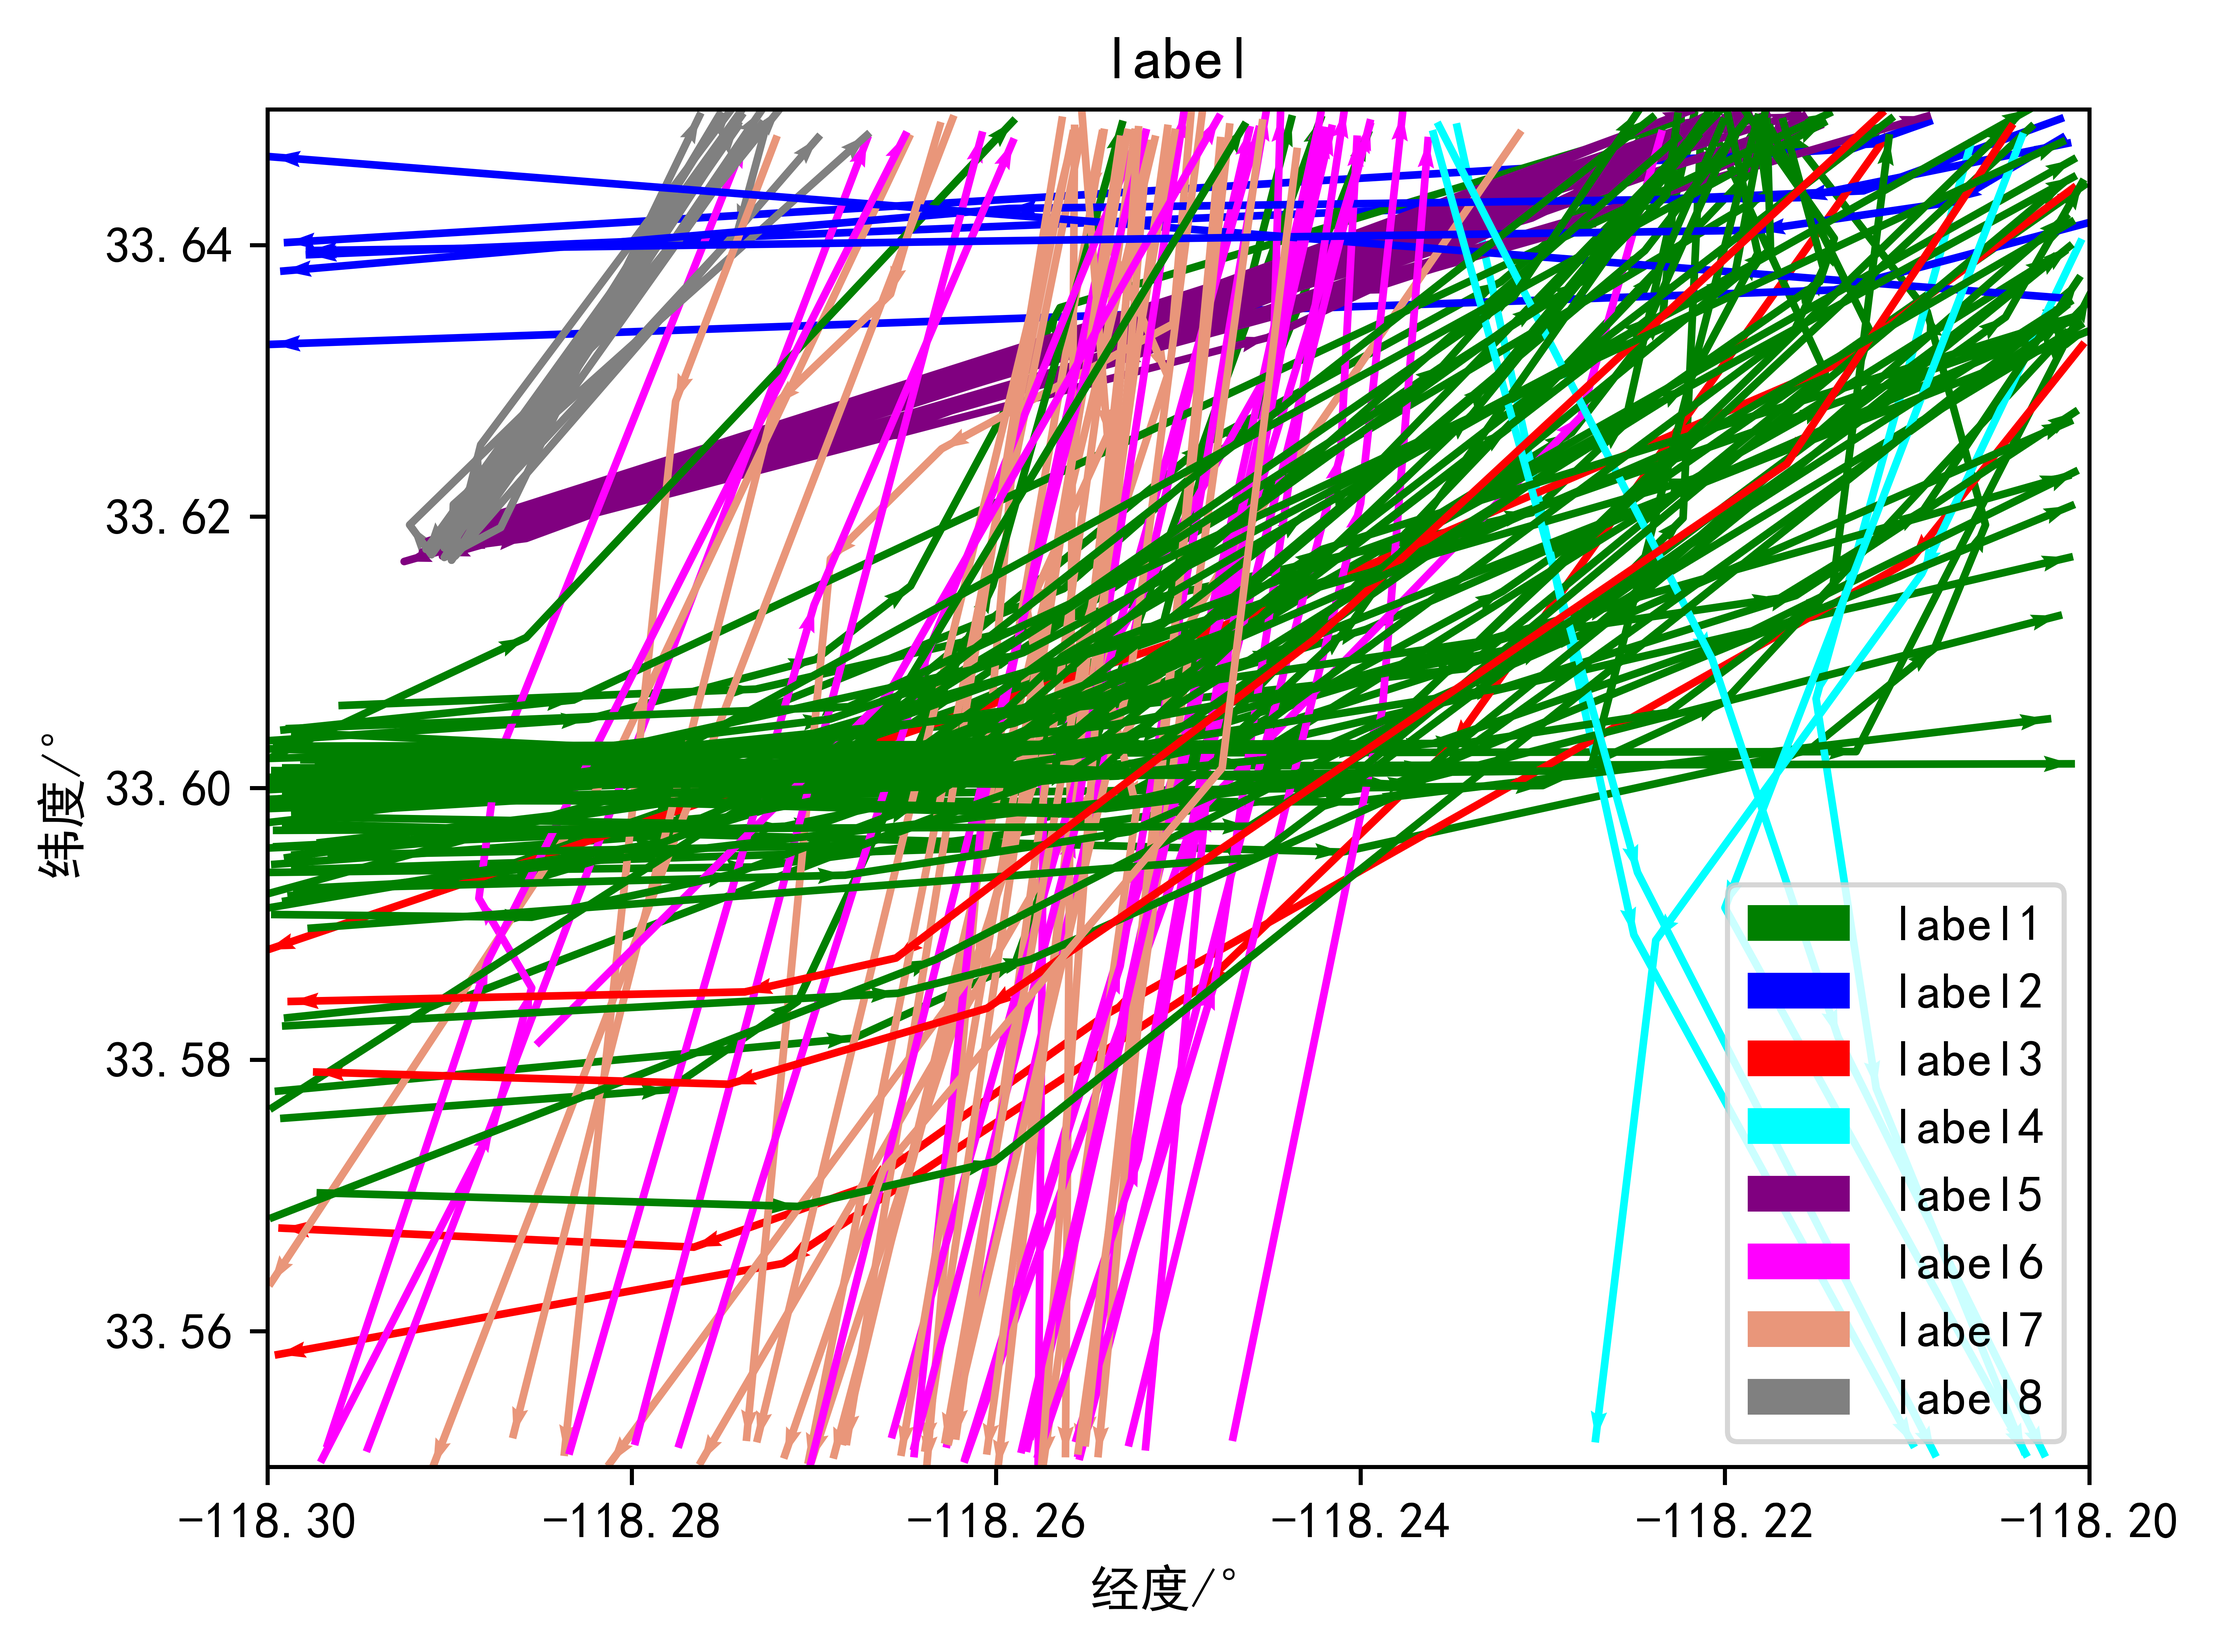
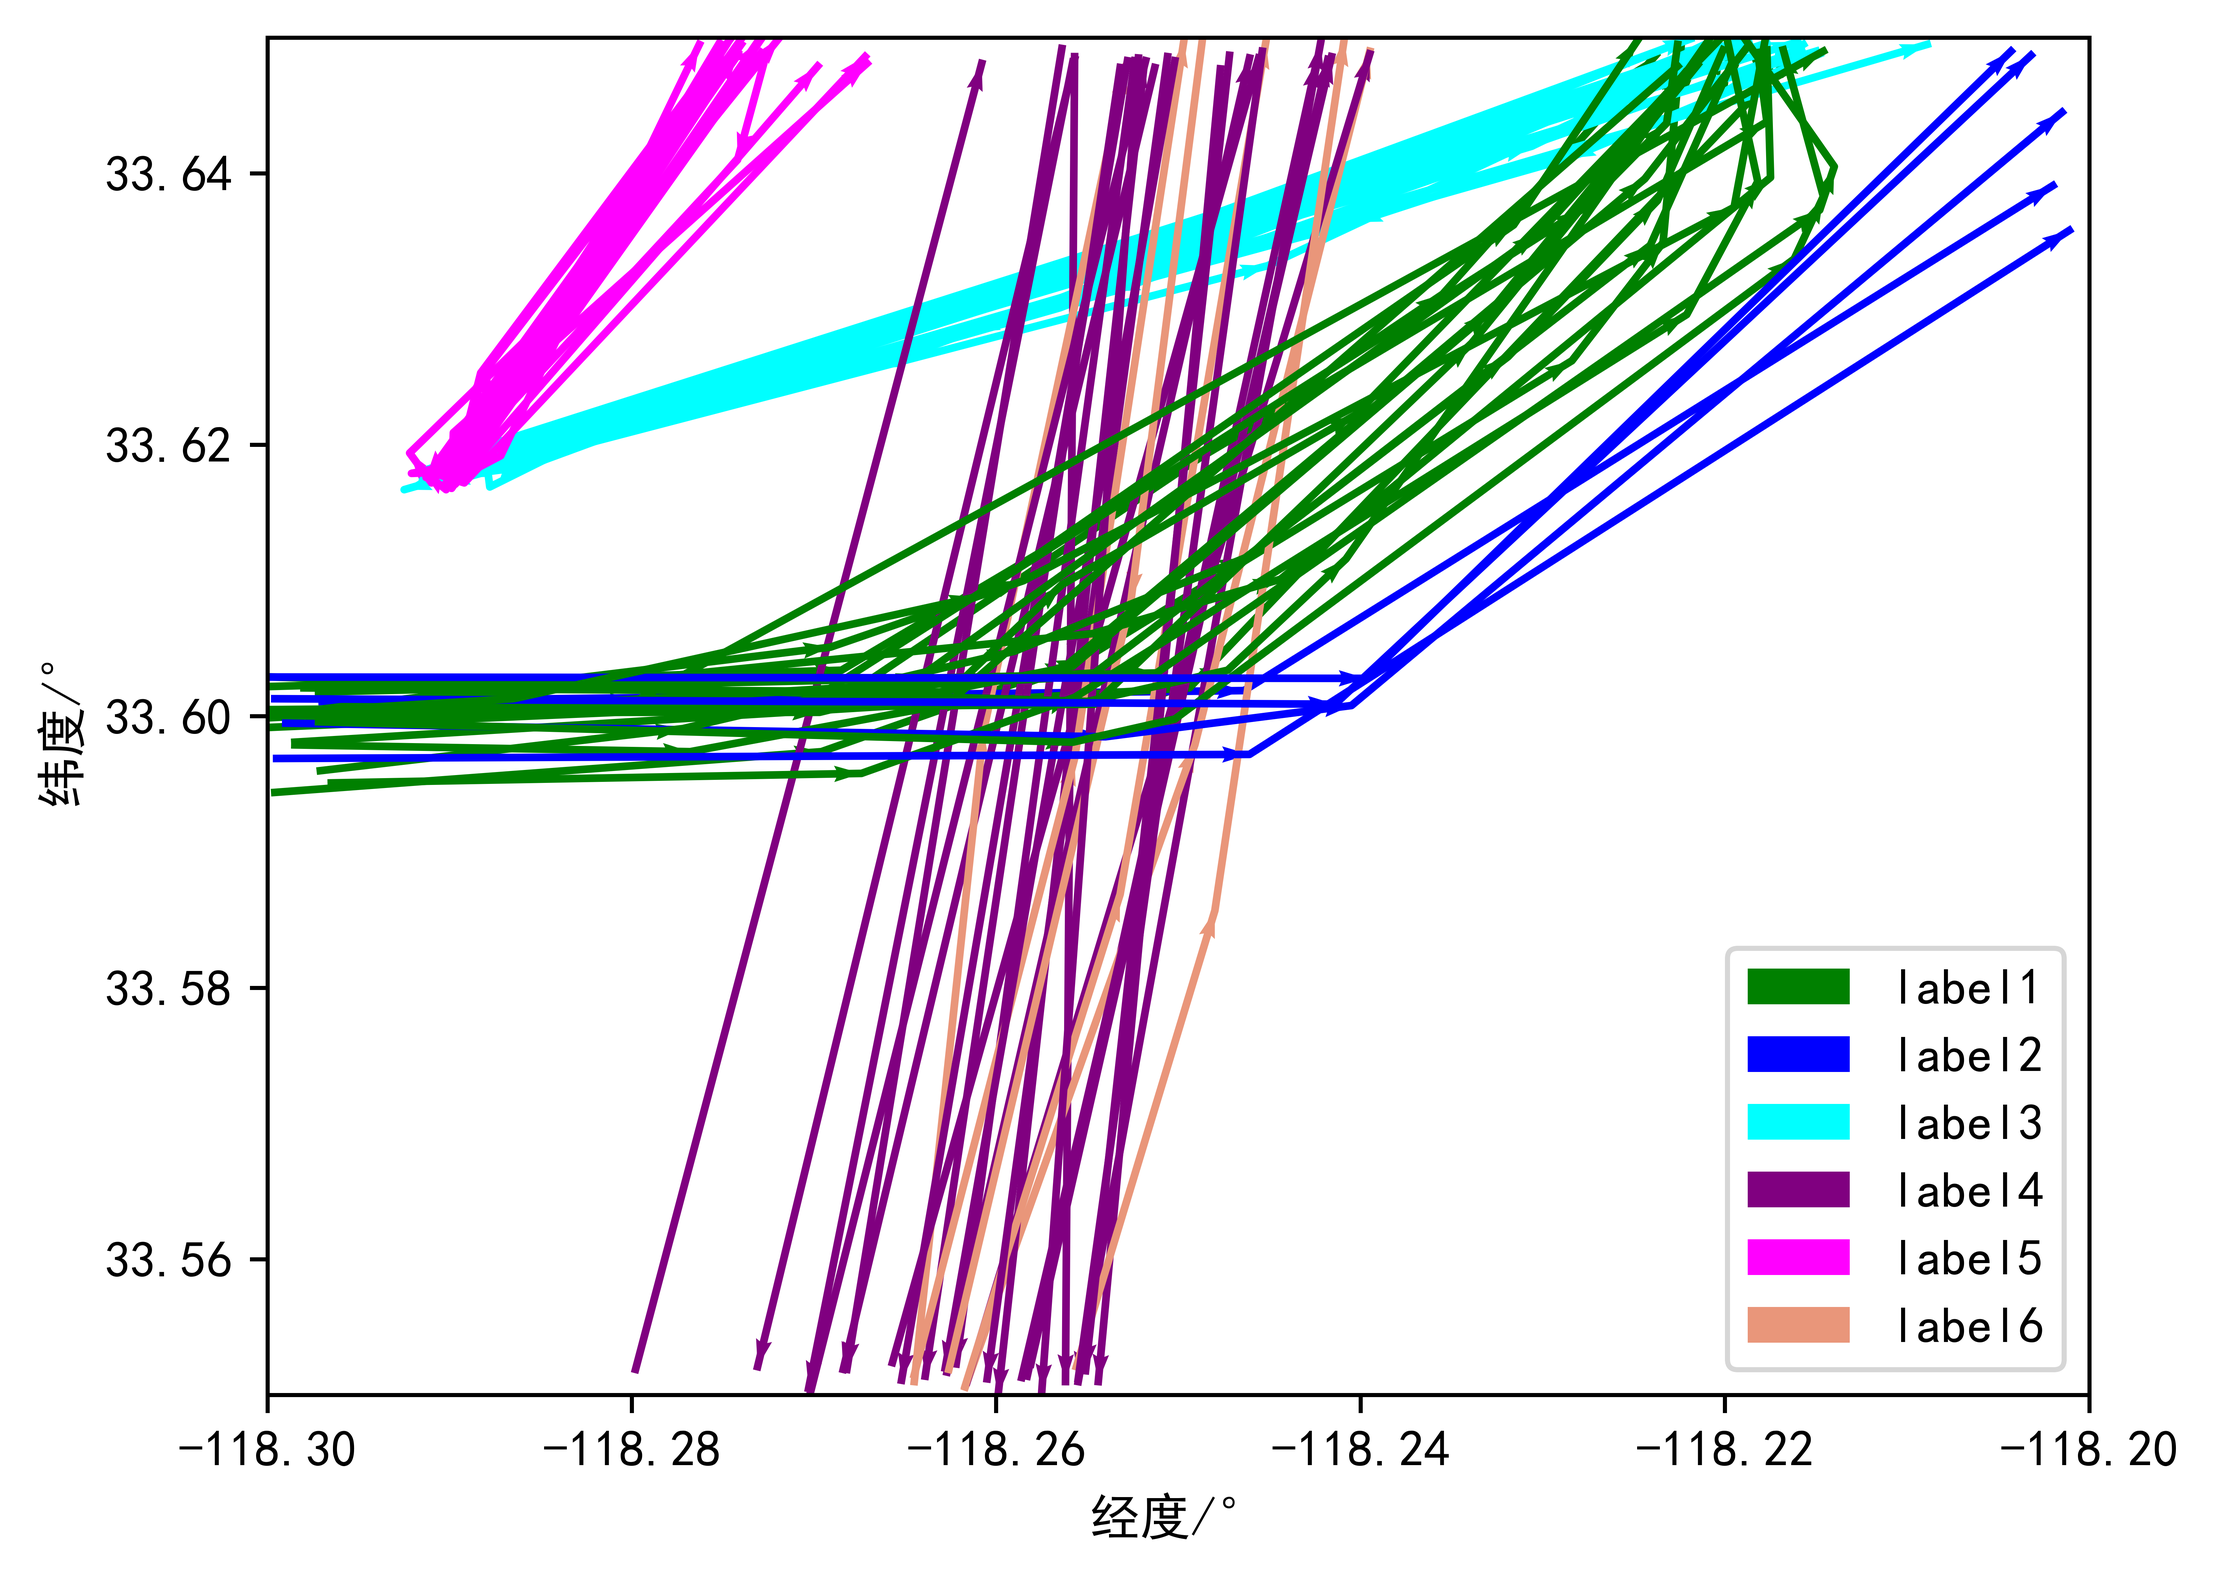
开始写大论文实验

diff --git a/TrajectoryCluster/cluster.py b/TrajectoryCluster/cluster.py
@@ -4,7 +4,7 @@ from TrajectoryCluster.aisPoint import AIS
 from sqlalchemy import and_
 from sqlalchemy import func
 from TrajectoryCluster.trajectory import Trajectory
-import datetime
+import time
 import matplotlib.pyplot as plt
 import pandas as pd
 from TrajectoryCluster.dtw import DTW, DTWSpatialDis, DTWCompare, DTW1, DTWSpatialDisCOM
@@ -30,6 +30,8 @@ session = DbSession()
 # testAIS = session.query(AIS).filter(AIS.MMSI=='王军号MMSI').one()
 # print("type:",type(testAIS))
 # print("生日",testAIS.BaseDateTime)
+
+
 
 # ================================航迹提取=============================
 # 读取研究范围内所有航速大于1的AIS点
@@ -120,6 +122,9 @@ drawTrajectory("After Compress")
 
 # print(len(datas))
 
+# ================================程序开始时间=========================
+startTime = time.time()
+
 # ===================================调用DTW计算航迹之间的距离======================================
 # 保存航迹距离
 traDistances = []
@@ -135,11 +140,11 @@ for i in range(len(trajectories)):
         traDistanceSpa.append(0)
     for j in range(i + 1, len(trajectories)):
         # 本文实验
-        traDistance.append(DTW(trajectories[i].points, trajectories[j].points))
+        # traDistance.append(DTW(trajectories[i].points, trajectories[j].points))
         # 混合距离实验
         # traDistance.append(DTWSpatialDisCOM(trajectories[i].points, trajectories[j].points))
         # 豪斯多夫距离对比试验
-        # traDistance.append(hausdorff(trajectories[i].points, trajectories[j].points))
+        traDistance.append(hausdorff(trajectories[i].points, trajectories[j].points))
         # 计算SC得分需要的度量距离
         traDistanceSpa.append(DTWSpatialDis(trajectories[i].points, trajectories[j].points))
         countNum = countNum + len(trajectories[i].points) * len(trajectories[j].points)
@@ -149,8 +154,9 @@ traDistances = np.triu(np.array(traDistances))
 traDistancesSpa = np.triu(np.array(traDistancesSpa))
 traDistances += traDistances.T - np.diag(traDistances.diagonal())
 traDistancesSpa += traDistancesSpa.T - np.diag(traDistancesSpa.diagonal())
-
 print("计算DTW距离时比较次数：" + str(countNum))
+
+
 
 # =========================测试聚类时参数===================
 # res = []
@@ -193,20 +199,22 @@ print("计算DTW距离时比较次数：" + str(countNum))
 
 
 # =============================使用DBSCAN开始聚类=================================================
-# 豪斯多夫距离对比试验
-
 # 豪斯多夫聚类参数
-# eps = 0.0122
-# min_samples = 5
+eps = 0.006
+min_samples = 4
 # 混合距离对比试验参数
 # eps = 0.17
 # min_samples = 6
 # 真实实验参数
-eps = 0.27
-min_samples = 5
+# eps = 0.27
+# min_samples = 5
 dbscan = DBSCAN(min_samples=min_samples, eps=eps, leaf_size=1000, metric='precomputed')
 label = dbscan.fit(np.array(traDistances)).labels_
 # 评价聚类的效果
+
+# =====================================程序结束时间==========================
+endTime = time.time()
+
 
 score = silhouette_score(np.array(traDistancesSpa), label, metric='precomputed')
 print("聚类效果SC得分：", score)
@@ -283,10 +291,9 @@ for trajectory in trajectories:
     plt.plot()
 plt.xlabel('经度/°')
 plt.ylabel('纬度/°')
-plt.title("label")
+# plt.title("label")
 plt.savefig("cluster results", dpi=1080, bbox_inches='tight')
 plt.show()
-
 
 # 分别展示不同label的航迹
 # for aaa in range(len(colorLegend)):
@@ -319,4 +326,6 @@ plt.show()
 #     print("label"+str(aaa)+"绘图完成。。。。。")
 #     # plt.show()
 
+
 print("结束！")
+print("共用时",str(endTime-startTime))

diff --git a/shuxuejianmo/test.py b/shuxuejianmo/test.py
@@ -1,0 +1,60 @@
+import matplotlib
+import random
+import matplotlib.pyplot as plt
+from collections import OrderedDict
+
+import xlrd
+#打开Excel文件读取数据('文件所在路径')
+dataa = xlrd.open_workbook(r'shuju.xlsx')
+#根据sheet索引获取sheet内容
+sheet = dataa.sheet_by_index(0)
+#获取行数
+sheet_nrows = sheet.nrows
+# 创建存放这列数据的列表
+list1 = []
+# 从第三行开始读取数据
+i = 0
+dis = {}
+while i < sheet_nrows:
+    dis[sheet.cell(i,0).value]=sheet.cell(i,1).value
+    i +=1
+# new_list = list(set(list1))                # 去重
+# new_list.sort(key=list1.index)             # 去重后顺序不变
+print(dis)
+sorted_pairs = sorted(dis.items(), key=lambda k: abs(k[1]), reverse=True)
+ordered_dict = OrderedDict(sorted_pairs)
+print(ordered_dict)
+city_name = []
+data = []
+count = 1
+for k,v in ordered_dict.items():
+    if(count<=20):
+        city_name.append(k)
+        data.append(v)
+        count= count+1
+# 中文乱码和坐标轴负号处理。
+matplotlib.rc('font', family='SimHei', weight='bold')
+plt.rcParams['axes.unicode_minus'] = False
+
+
+# 绘图。
+fig, ax = plt.subplots()
+b = ax.barh(range(len(city_name)), data, color='#6699CC')
+
+# 为横向水平的柱图右侧添加数据标签。
+for rect in b:
+    w = rect.get_width()
+    ax.text(w, rect.get_y() + rect.get_height() / 2.0, '%f' %
+            w, ha='left', va='center')
+
+# 设置Y轴纵坐标上的刻度线标签。
+ax.set_yticks(range(len(city_name)))
+ax.set_yticklabels(city_name)
+# plt.figure(figsize=(28,3))
+# 不要X横坐标上的label标签。
+plt.xticks(())
+
+plt.title('水平横向的柱状图', loc='center', fontsize='25',
+          fontweight='bold', color='red')
+
+plt.show()

diff --git a/TrajectoryPredict/predict.py b/TrajectoryPredict/predict.py
@@ -1,0 +1,26 @@
+from sqlalchemy import create_engine
+from sqlalchemy.orm import sessionmaker
+from TrajectoryCluster.aisPoint import AIS
+from sqlalchemy import and_
+from sqlalchemy import func
+from TrajectoryCluster.trajectory import Trajectory
+import time
+import matplotlib.pyplot as plt
+import pandas as pd
+from TrajectoryCluster.dtw import DTW, DTWSpatialDis, DTWCompare, DTW1, DTWSpatialDisCOM
+import numpy as np
+from sklearn.cluster import DBSCAN
+from sklearn.metrics import silhouette_score, calinski_harabasz_score, davies_bouldin_score  # 计算 轮廓系数，CH 指标，DBI
+from TrajectoryCluster.myHausdorff import hausdorff
+
+# 画图时，如遇中文显示问题可加入以下代码
+from pylab import mpl
+mpl.rcParams['font.sans-serif'] = ['SimHei']  # 指定默认字体
+mpl.rcParams['axes.unicode_minus'] = False  # 解决保存图像是负号'-'显示为方块的问题
+
+# 连接数据库
+engine = create_engine("mysql+pymysql://root:123456@localhost:3306/ais?charset=utf8")
+DbSession = sessionmaker(bind=engine)
+session = DbSession()
+
+# ==========================================航迹提取===============================
